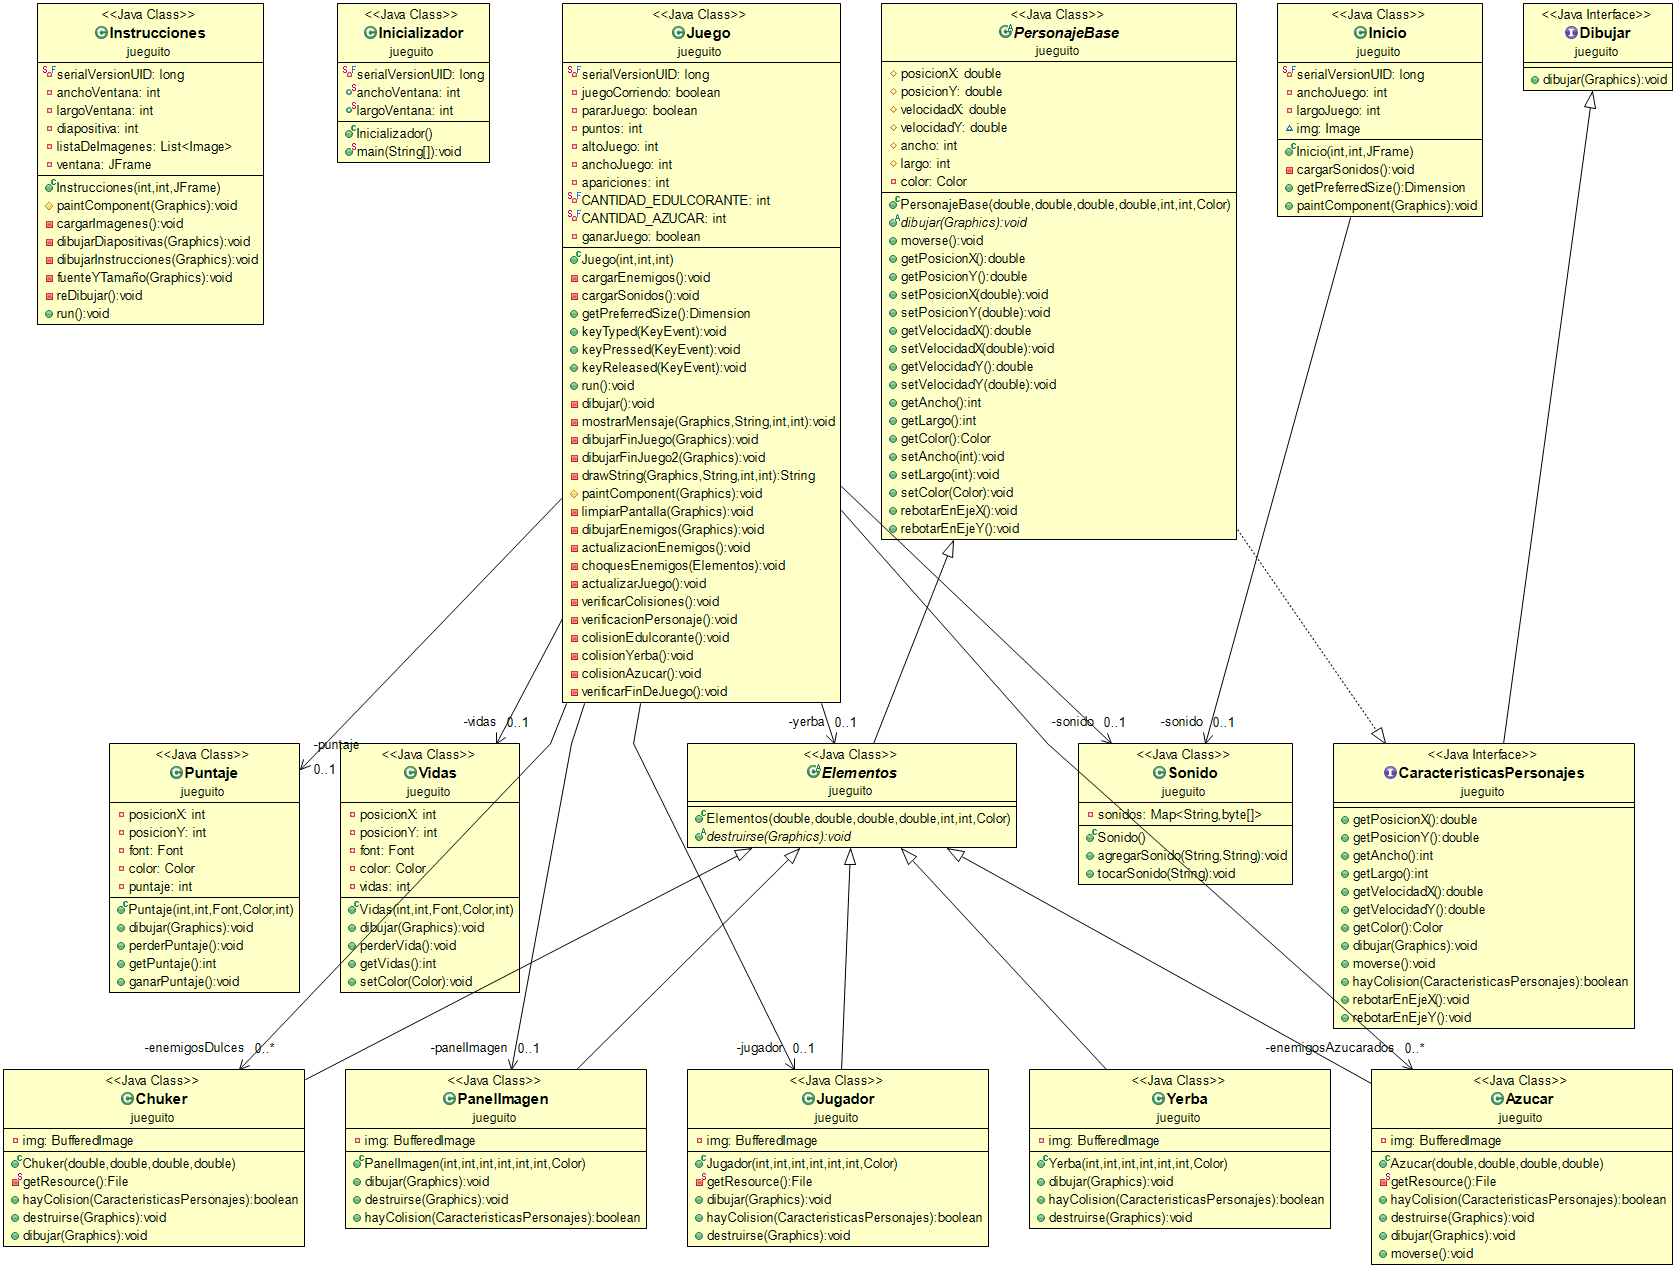
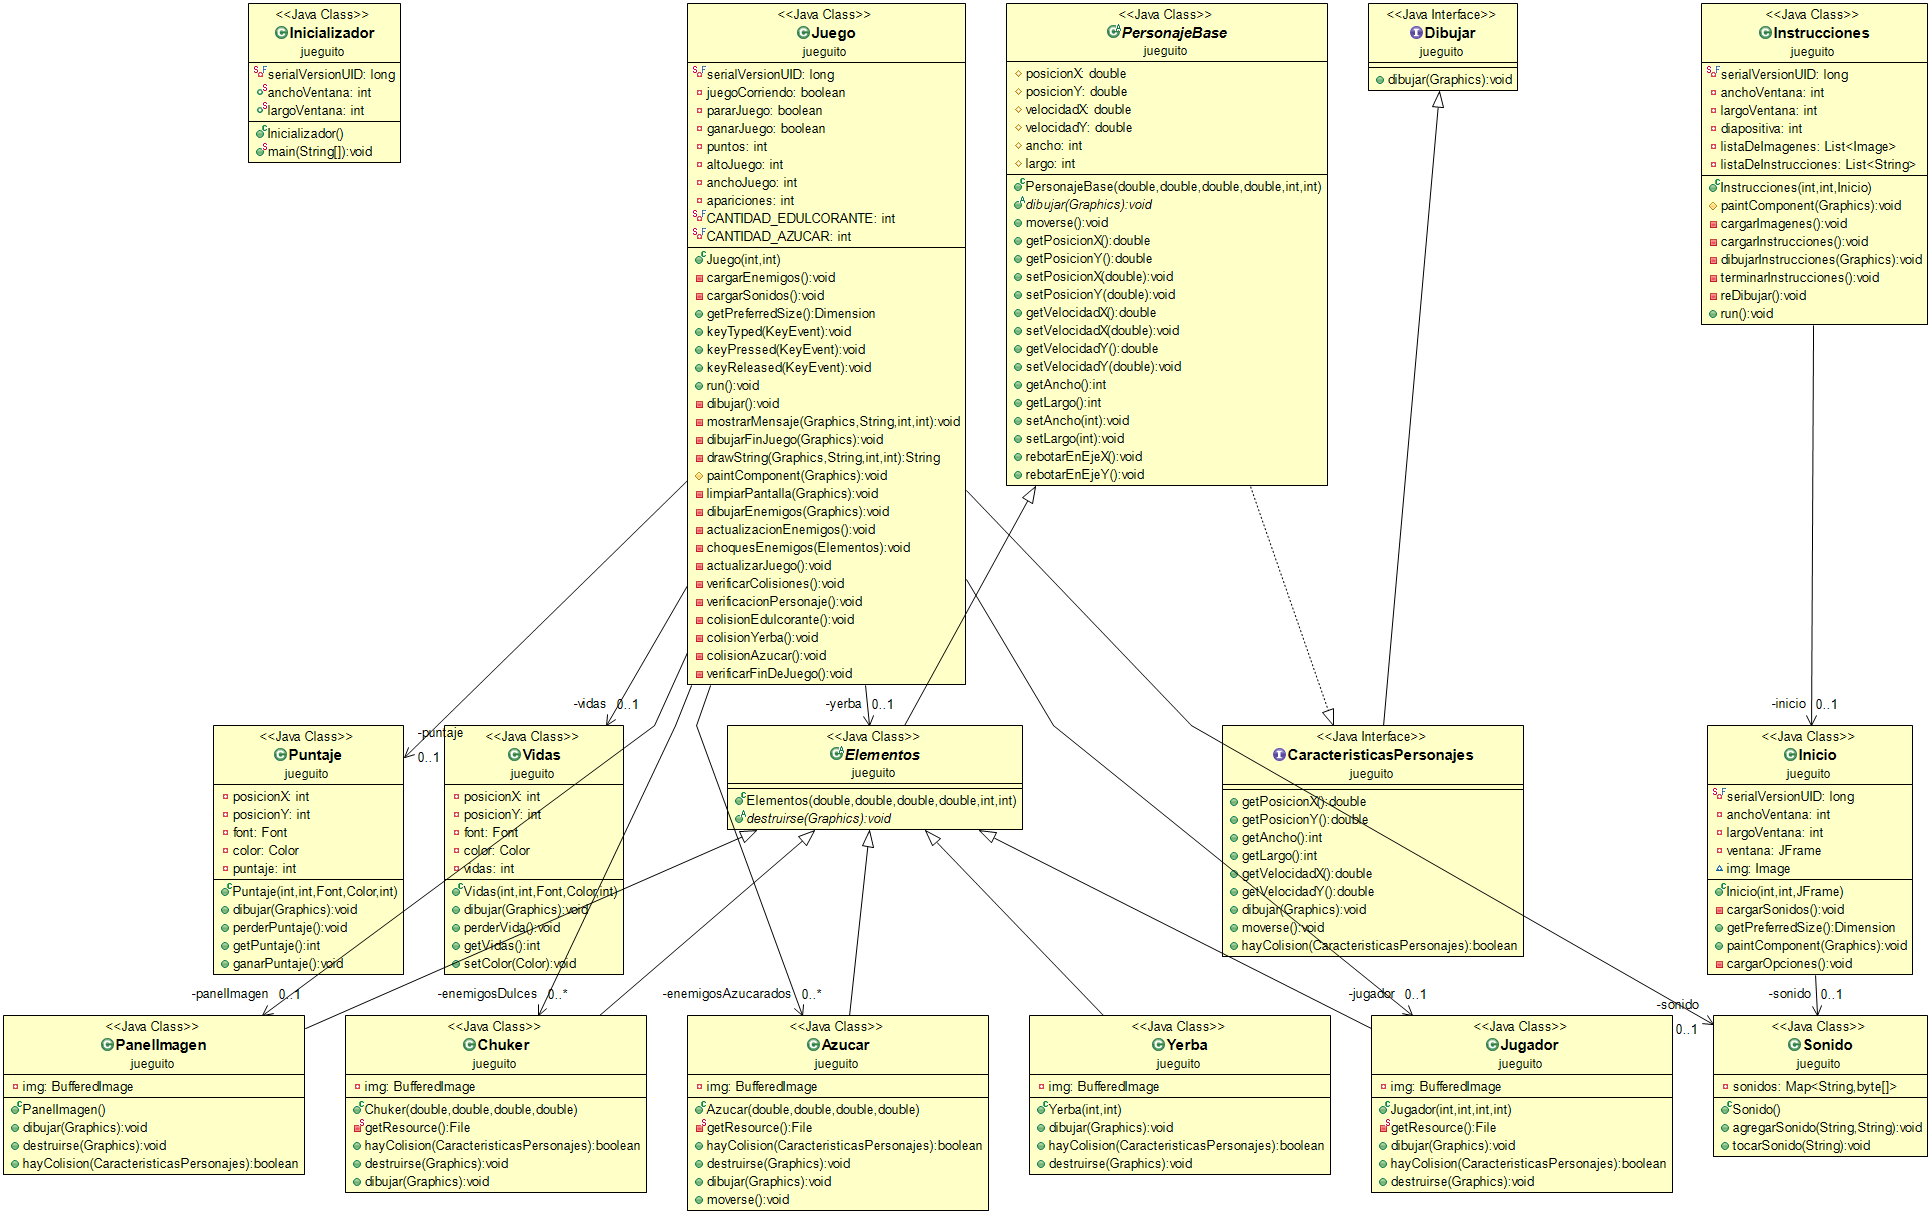
cambiando color game over y modificando diagrama de clases

diff --git a/src/jueguito/Juego.java b/src/jueguito/Juego.java
@@ -132,7 +132,7 @@ public class Juego extends JPanel implements KeyListener, Runnable {
 	
 	private void mostrarMensaje(Graphics g, String mensaje, int x, int y) {
 		this.limpiarPantalla(g);
-		g.setColor(Color.magenta);
+		g.setColor(Color.cyan);
 		g.setFont(new Font("Impact", 8, 30));
 		g.drawString(mensaje, x, y);
 	}
